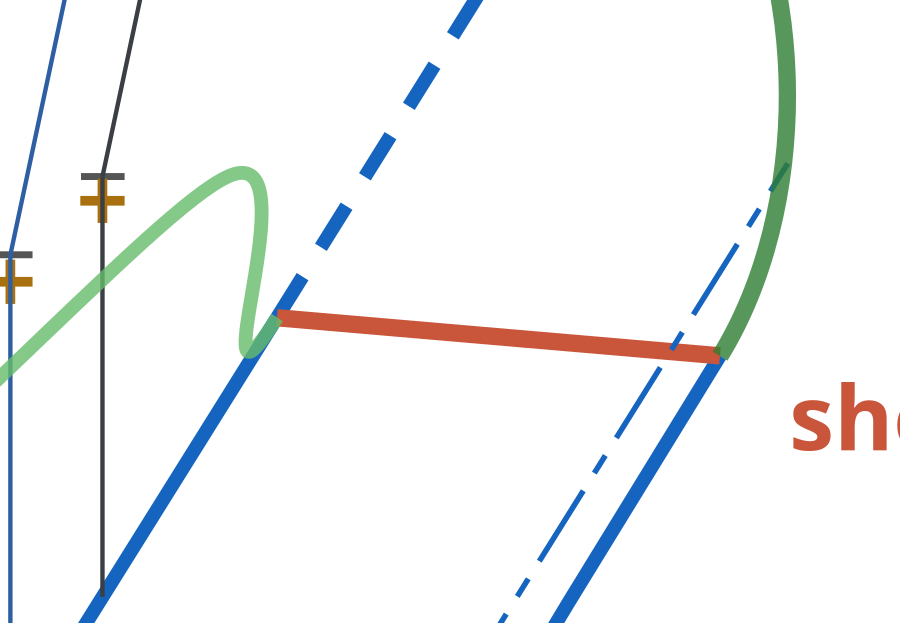
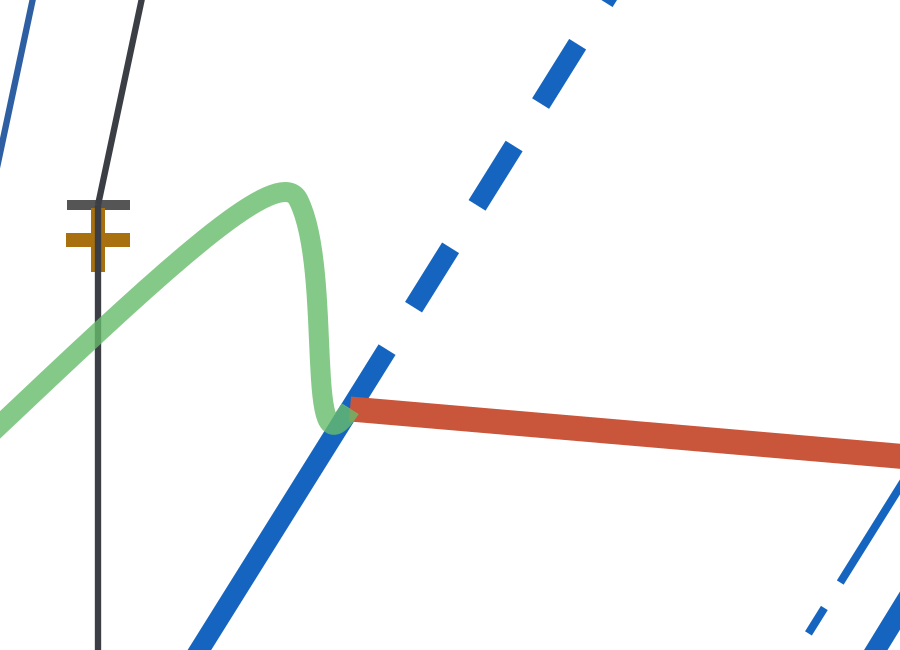
Erand49 inner shoulder: tangential touchdown, no crossing
The previous attempt's long end handle made the green overshoot right,
Z-wiggle, and cross the solid blue before entering (visible only at max
zoom — JC caught it). Reshaped both handles: the ogee's exit handle at
the post-crest node now hands off down-right (G1 kept), and the landing
segment's end handle (9px) lies on the lap line, hull entirely above the
line — the plate edge curls over the crest, descends, and lands tangent
at the junction like a touchdown. Verified on a max-zoom render.

Claude-Session: https://claude.ai/code/session_012jVWLqFRNWgavrkoqrZokD

diff --git a/Erand49/LAYOUT.html b/Erand49/LAYOUT.html
@@ -16,7 +16,7 @@ surface — connection, docking, and travel live in the PM's <code>../LAYOUT.htm
 the instrument itself: string band, sensors, and frame.</p>
 
 <h2>Figure 1 — harp side-view profile (ISO 128/129): strings on the frame</h2>
-<p style="font-size:11px;color:#999;margin:2px 0 6px">generated 2026-09-01 15:01:46 — if this stamp is old, the browser is showing a cached/old copy</p>
+<p style="font-size:11px;color:#999;margin:2px 0 6px">generated 2026-09-01 15:05:20 — if this stamp is old, the browser is showing a cached/old copy</p>
 <p class="sub">From <code>erard original stringband tutorial.dxf</code>: variable spacing
 (13.325→17.94 mm, ratio 1.025), sloped anchors, in mm — <b>each stroke width is the string's actual
 overall diameter</b>. Colors per harp convention: <span class="leg" style="color:#c0392b">C red</span> ·
@@ -312,7 +312,7 @@ optical X/Y sensor axes, 1.0 in below each nut on the neck rail. Green Beziers (
 <g stroke="#555" stroke-width="1.0"><line x1="212.6" y1="79.4" x2="219.0" y2="79.4"/><line x1="220.6" y1="42.1" x2="227.0" y2="42.1"/></g>
 <text x="215.8" y="1668.8" class="nl" fill="#8d877a" text-anchor="middle">a0*</text>
 <path d="M 138.21996,54.93472 C 182.63611,12.264078 408.32862,-20.833264 472.26137,32.301189 536.19411,85.435641 615.43736,477.80999 746.63448,457.58294 877.8316,437.35589 899.00459,380.96014 976.11185,329.78393 c 77.10725,-51.17620 104.10100,39.06953 77.89897,81.65420" fill="none" stroke="#2e7d32" stroke-width="2.5" opacity="0.8"><title>tuner rail — hand-edited (Erand49.svg) — the neck top curve</title></path>
-<path d="m 140.74593,240.41583 c 46.26637,-33.24776 127.6104,-109.93822 249.2482,-76.92464 121.6378,33.01357 183.85728,382.8277 336.29284,377.19423 129.22755,-4.77578 242.90891,-155.44055 258.53871,-155.71257 9.00,-0.43 -6.46,39.56 5.2,20.9" fill="none" stroke="#66bb6a" stroke-width="2.0" opacity="0.8"><title>sensor rail — hand-edited (Erand49.svg) — the neck bottom curve, optical axes</title></path>
+<path d="m 140.74593,240.41583 c 46.26637,-33.24776 127.6104,-109.93822 249.2482,-76.92464 121.6378,33.01357 183.85728,382.8277 336.29284,377.19423 129.22755,-4.77578 251.78871,-169.06257 258.53871,-155.71257 3.60,7.12 0.43,28.53 5.2,20.9" fill="none" stroke="#66bb6a" stroke-width="2.0" opacity="0.8"><title>sensor rail — hand-edited (Erand49.svg) — the neck bottom curve, optical axes</title></path>
 </svg></div>
 
 <h2>Cross sections — diameters at 5×, at each string's real position</h2>
